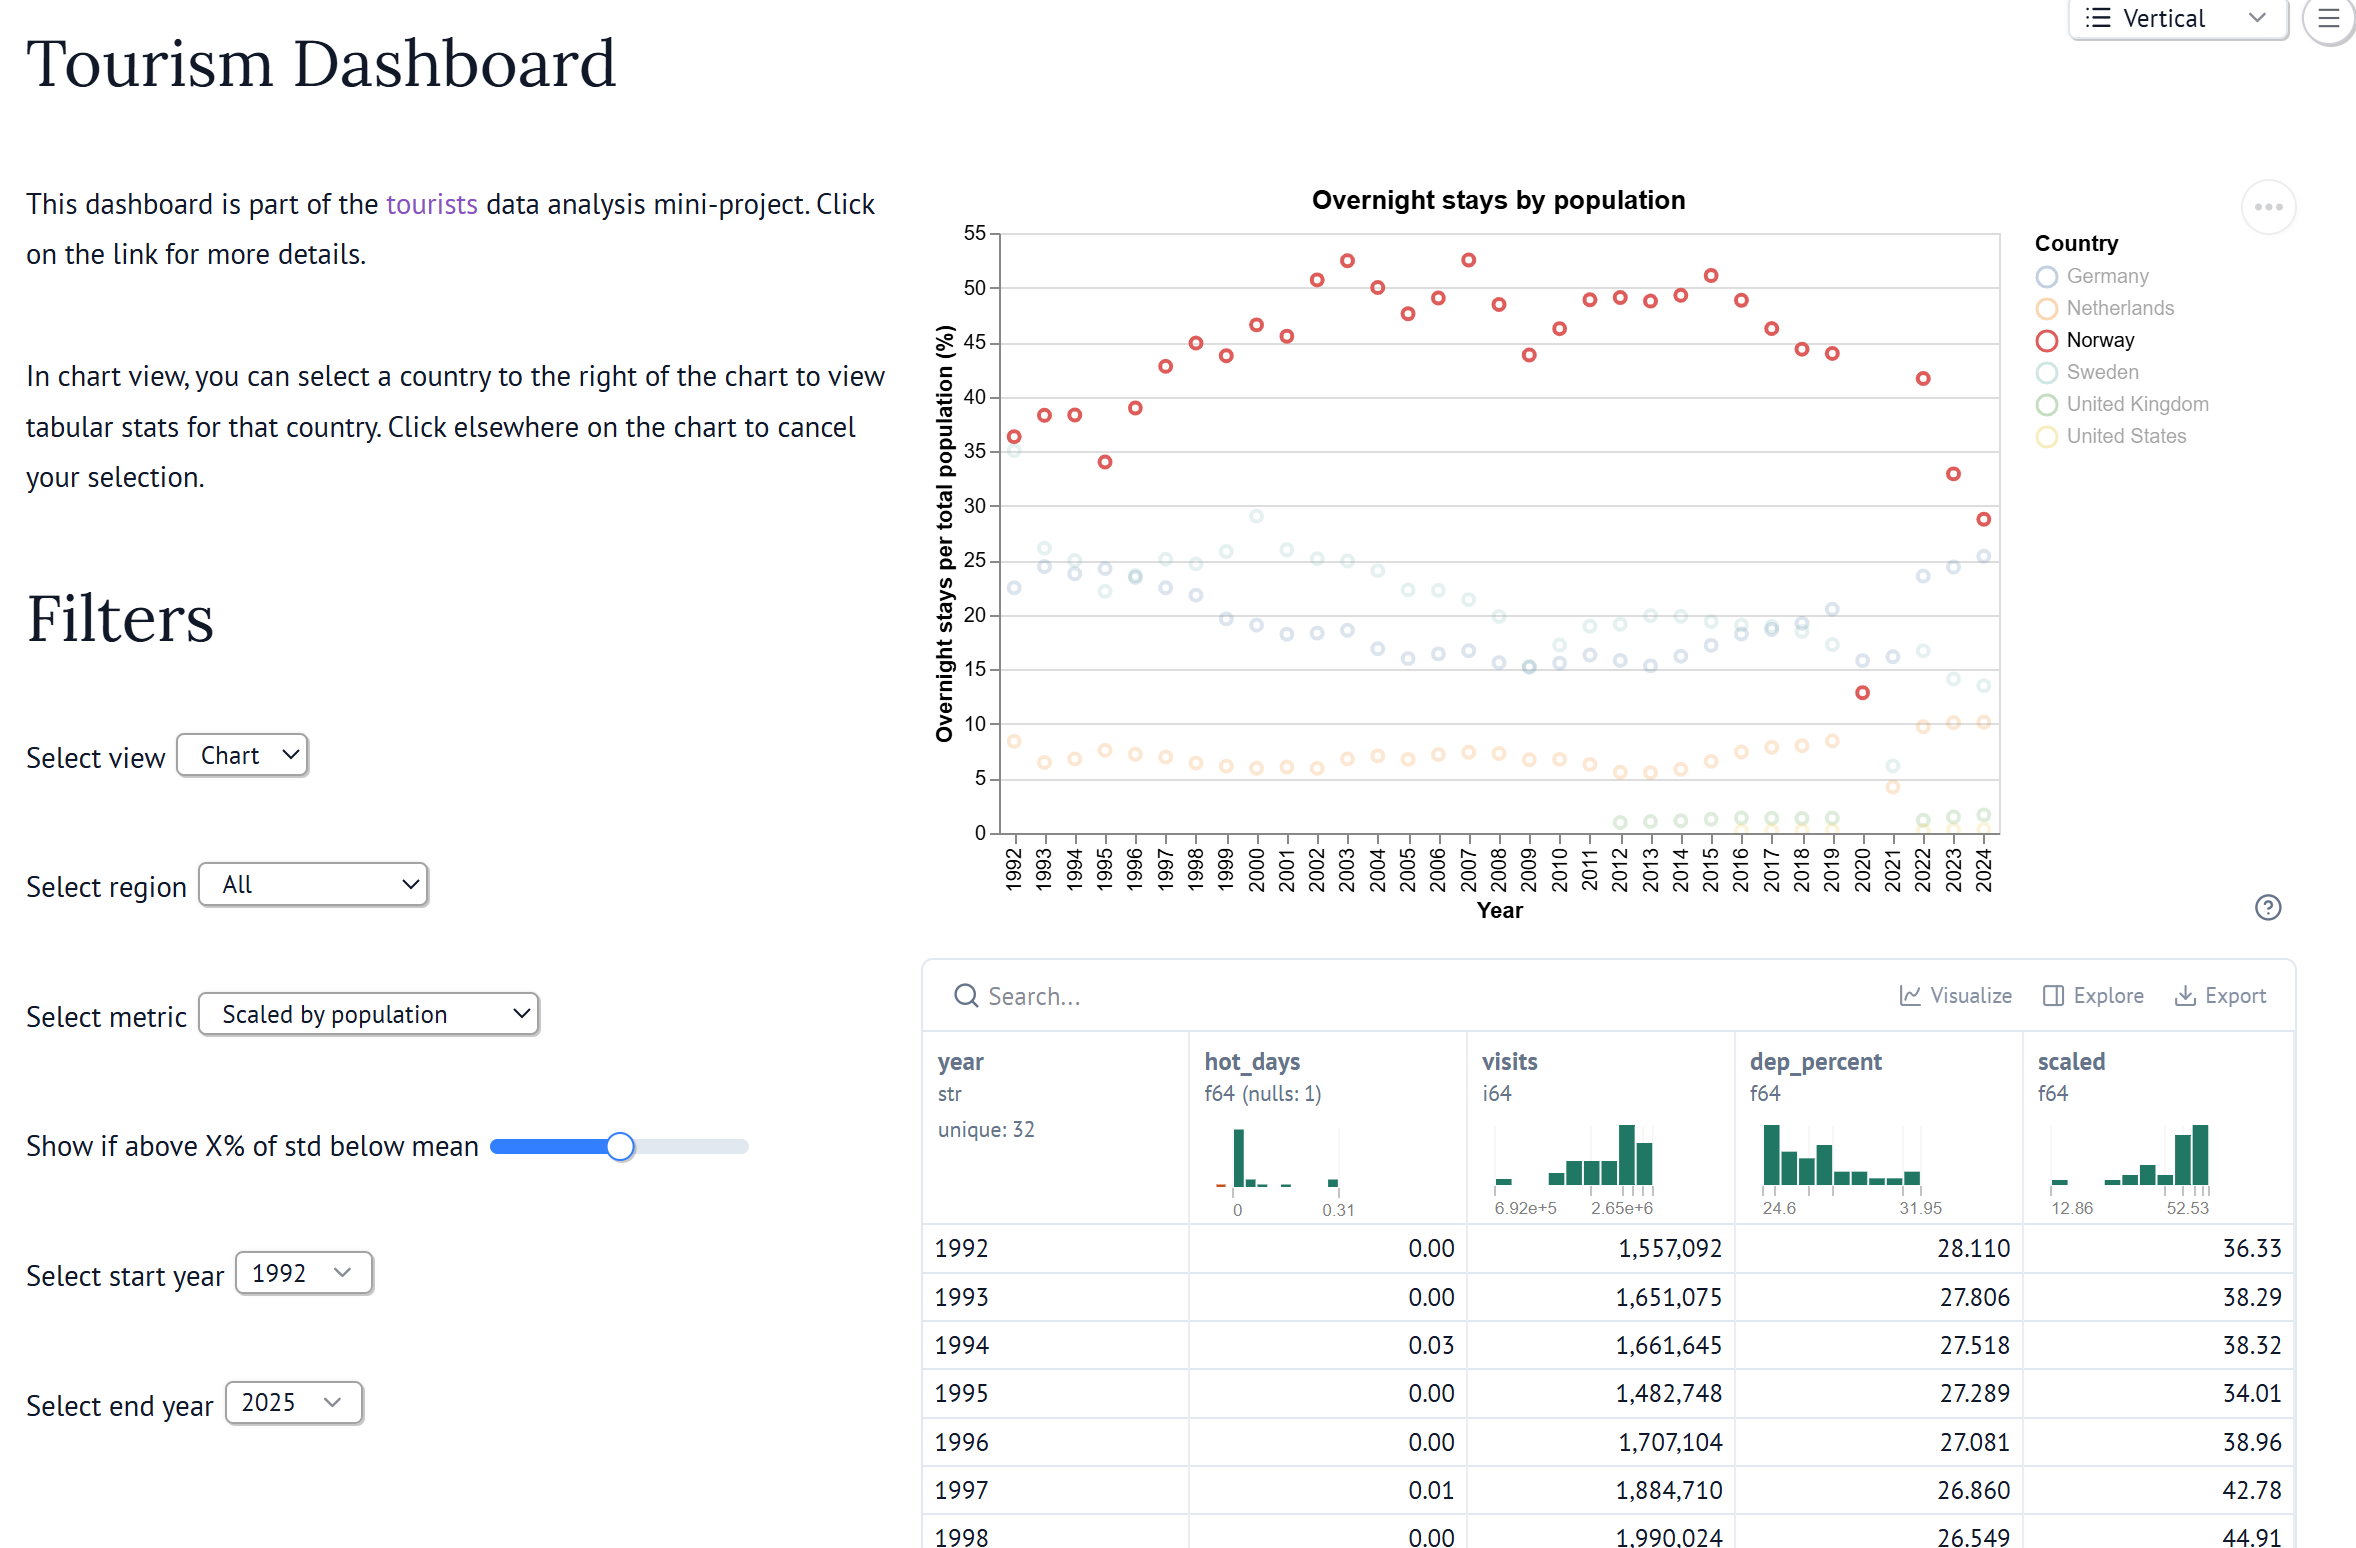
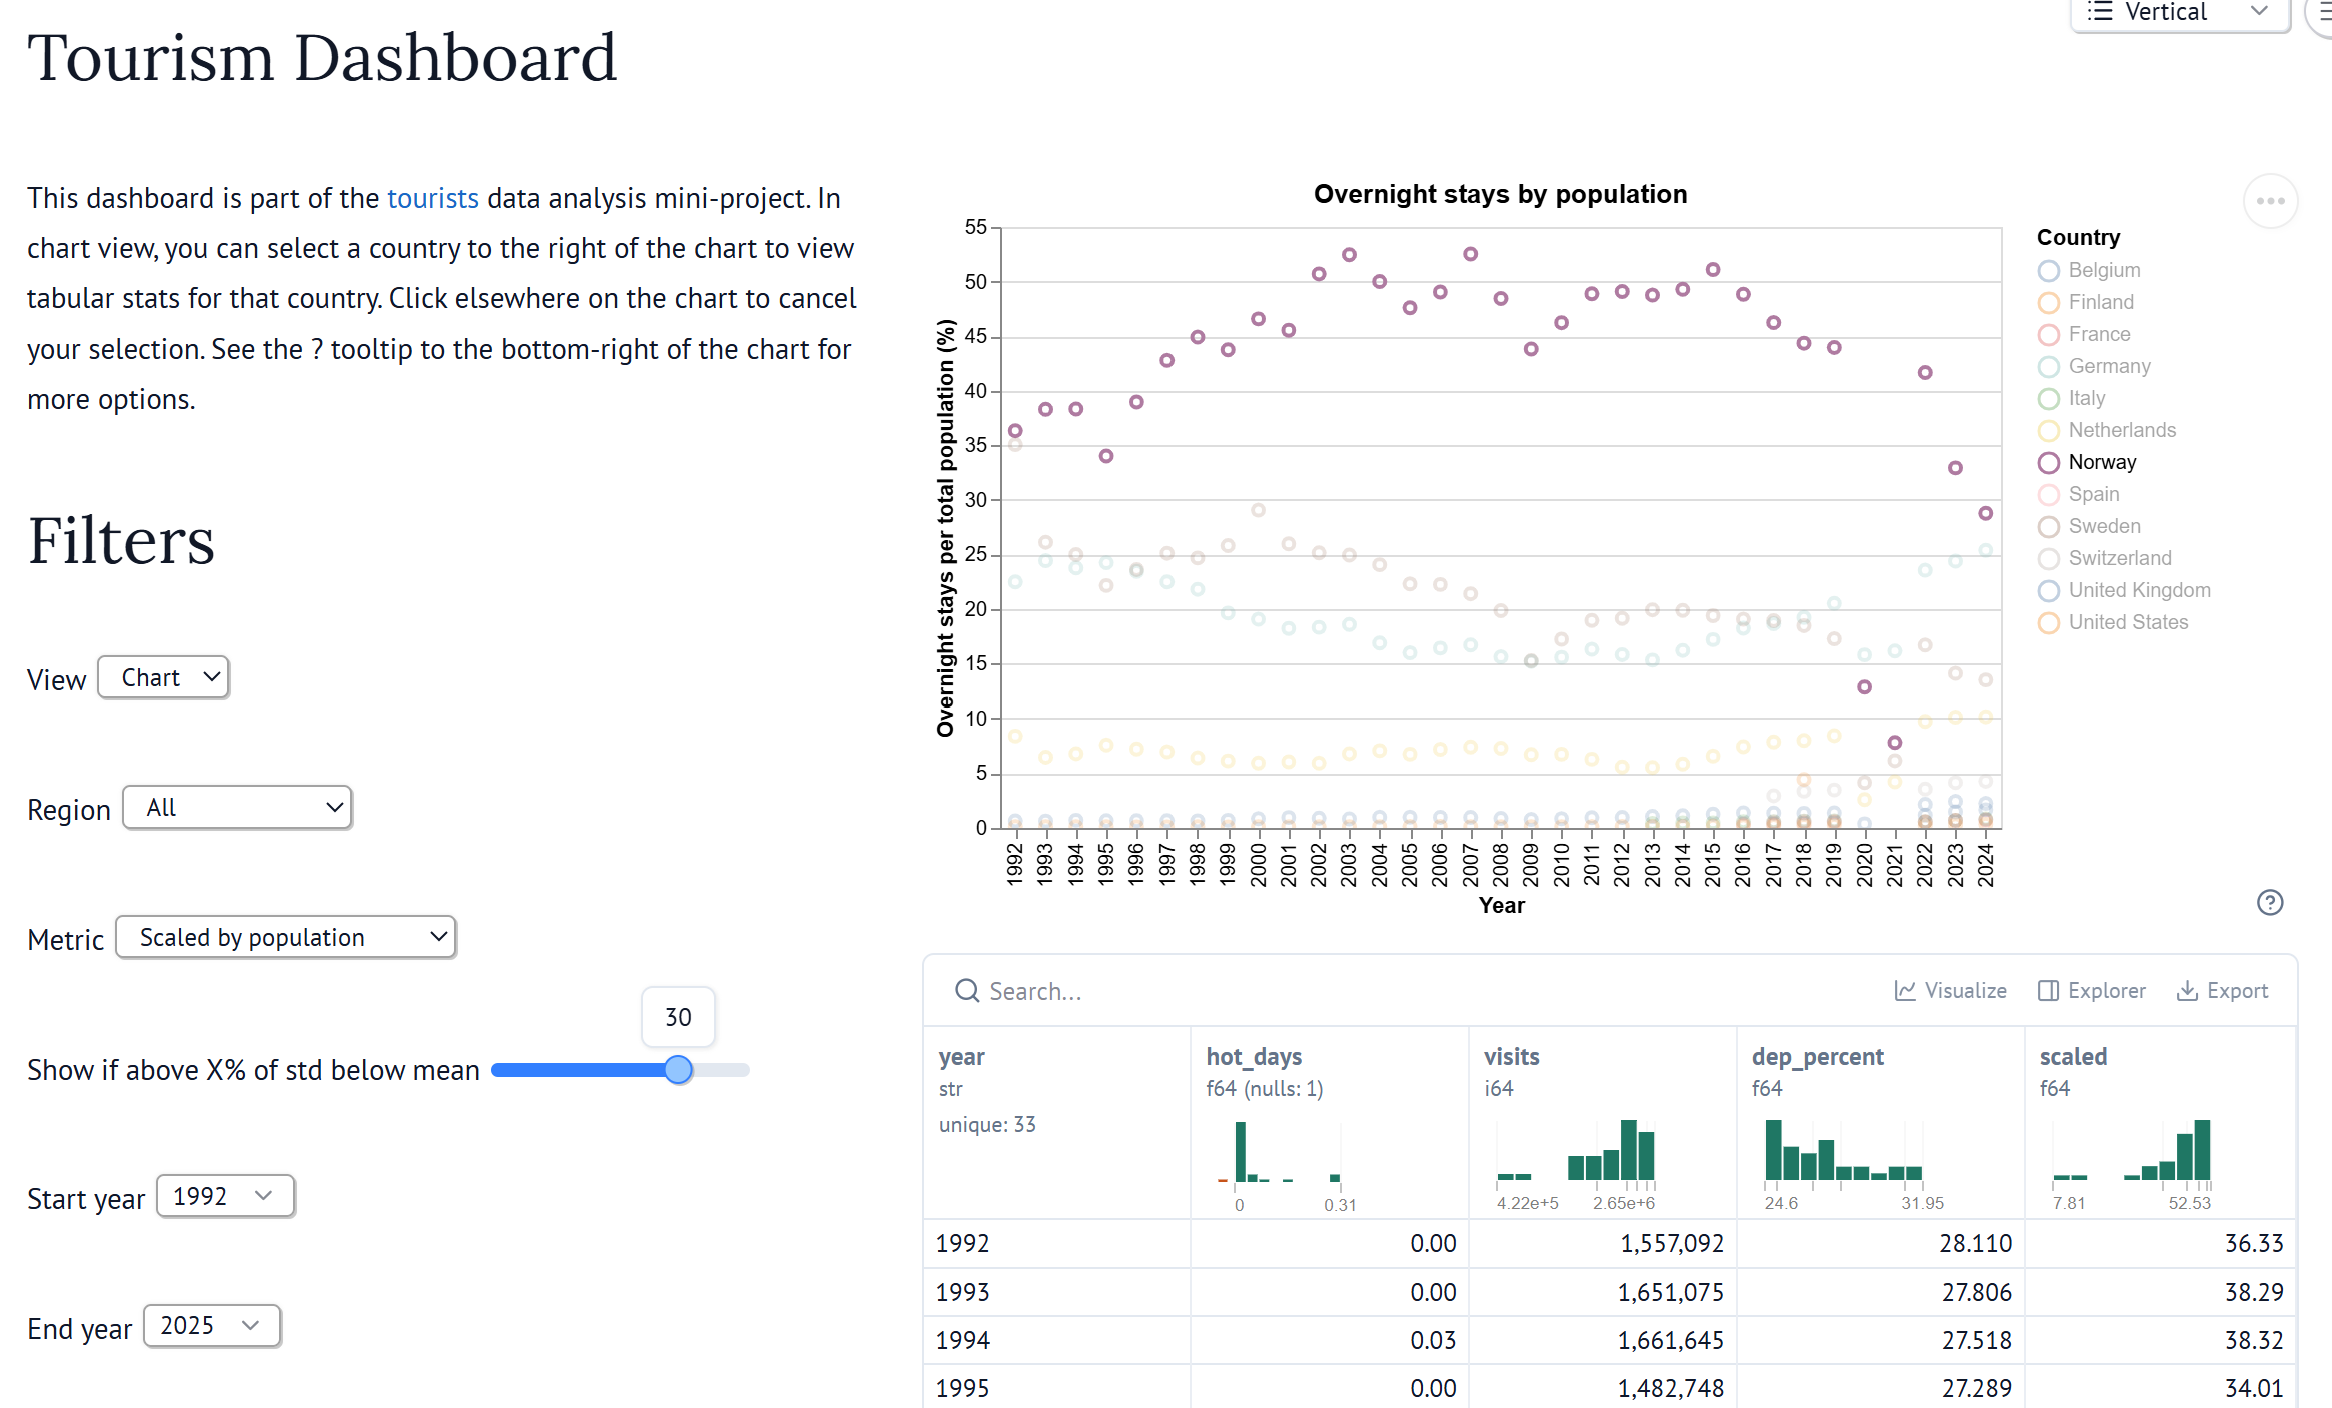
Update dashboard

diff --git a/dashboard.py b/dashboard.py
@@ -65,7 +65,7 @@ def _(mo):
     view_selector = mo.ui.dropdown(
         options=['Chart', 'Table'],
         value='Chart',
-        label='Select view'
+        label='View'
     )
     return (view_selector,)
 
@@ -75,7 +75,7 @@ def _(REGIONS, mo):
     region_selector = mo.ui.dropdown(
         options=['All'] + list(REGIONS.keys()),
         value='All',
-        label='Select region',
+        label='Region',
     )
     return (region_selector,)
 
@@ -85,7 +85,7 @@ def _(METRICS, mo):
     metric_selector = mo.ui.dropdown(
         options=[METRICS['VIS'], METRICS['STD'], METRICS['HOT'], METRICS['OLD']],
         value=METRICS['STD'],
-        label='Select metric',
+        label='Metric',
     )
     return (metric_selector,)
 
@@ -105,7 +105,7 @@ def _(YEAR_DICT, mo):
     start_year_selector = mo.ui.dropdown(
         options=YEAR_DICT,
         value='1992',
-        label='Select start year',
+        label='Start year',
         searchable=True,
     )
     return (start_year_selector,)
@@ -116,7 +116,7 @@ def _(YEAR_DICT, mo):
     end_year_selector = mo.ui.dropdown(
         options=dict(sorted(YEAR_DICT.items(), key=lambda item: item[0], reverse=True)),
         value='2025',
-        label='Select end year',
+        label='End year',
         searchable=True,
     )
     return (end_year_selector,)
@@ -130,7 +130,7 @@ def _(METRICS, REGIONS, pl):
         start_year = start_year_selector.value
         end_year = end_year_selector.value
 
-        visits = pl.col('visits')    
+        visits = pl.col('visits')
         year = pl.col('year').cast(pl.Int64)
 
         # Need to split this into two separate expressions
@@ -230,9 +230,7 @@ def _(alt):
 @app.cell
 def _():
     description = """
-    This dashboard is part of the [tourists](https://github.com/amanda-amy-frost/tourists) data analysis mini-project. Click on the link for more details.
-
-    In chart view, you can select a country to the right of the chart to view tabular stats for that country. Click elsewhere on the chart to cancel your selection.
+    This dashboard is part of the [tourists](https://github.com/amanda-amy-frost/tourists) data analysis mini-project. In chart view, you can select a country to the right of the chart to view tabular stats for that country. Click elsewhere on the chart to cancel your selection. See the ? tooltip to the bottom-right of the chart for more options.
     """
     return (description,)
 
@@ -289,7 +287,7 @@ def _(
 
     chart_view = mo.vstack([
         mo_chart,
-        mo_chart.value.select('year', 'hot_days', 'visits', 'dep_percent', 'scaled'),
+        mo_chart.value.select('country', 'year', 'scaled', 'visits', 'hot_days', 'dep_percent'),
     ])
 
     table_view = filtered_table(filtered)